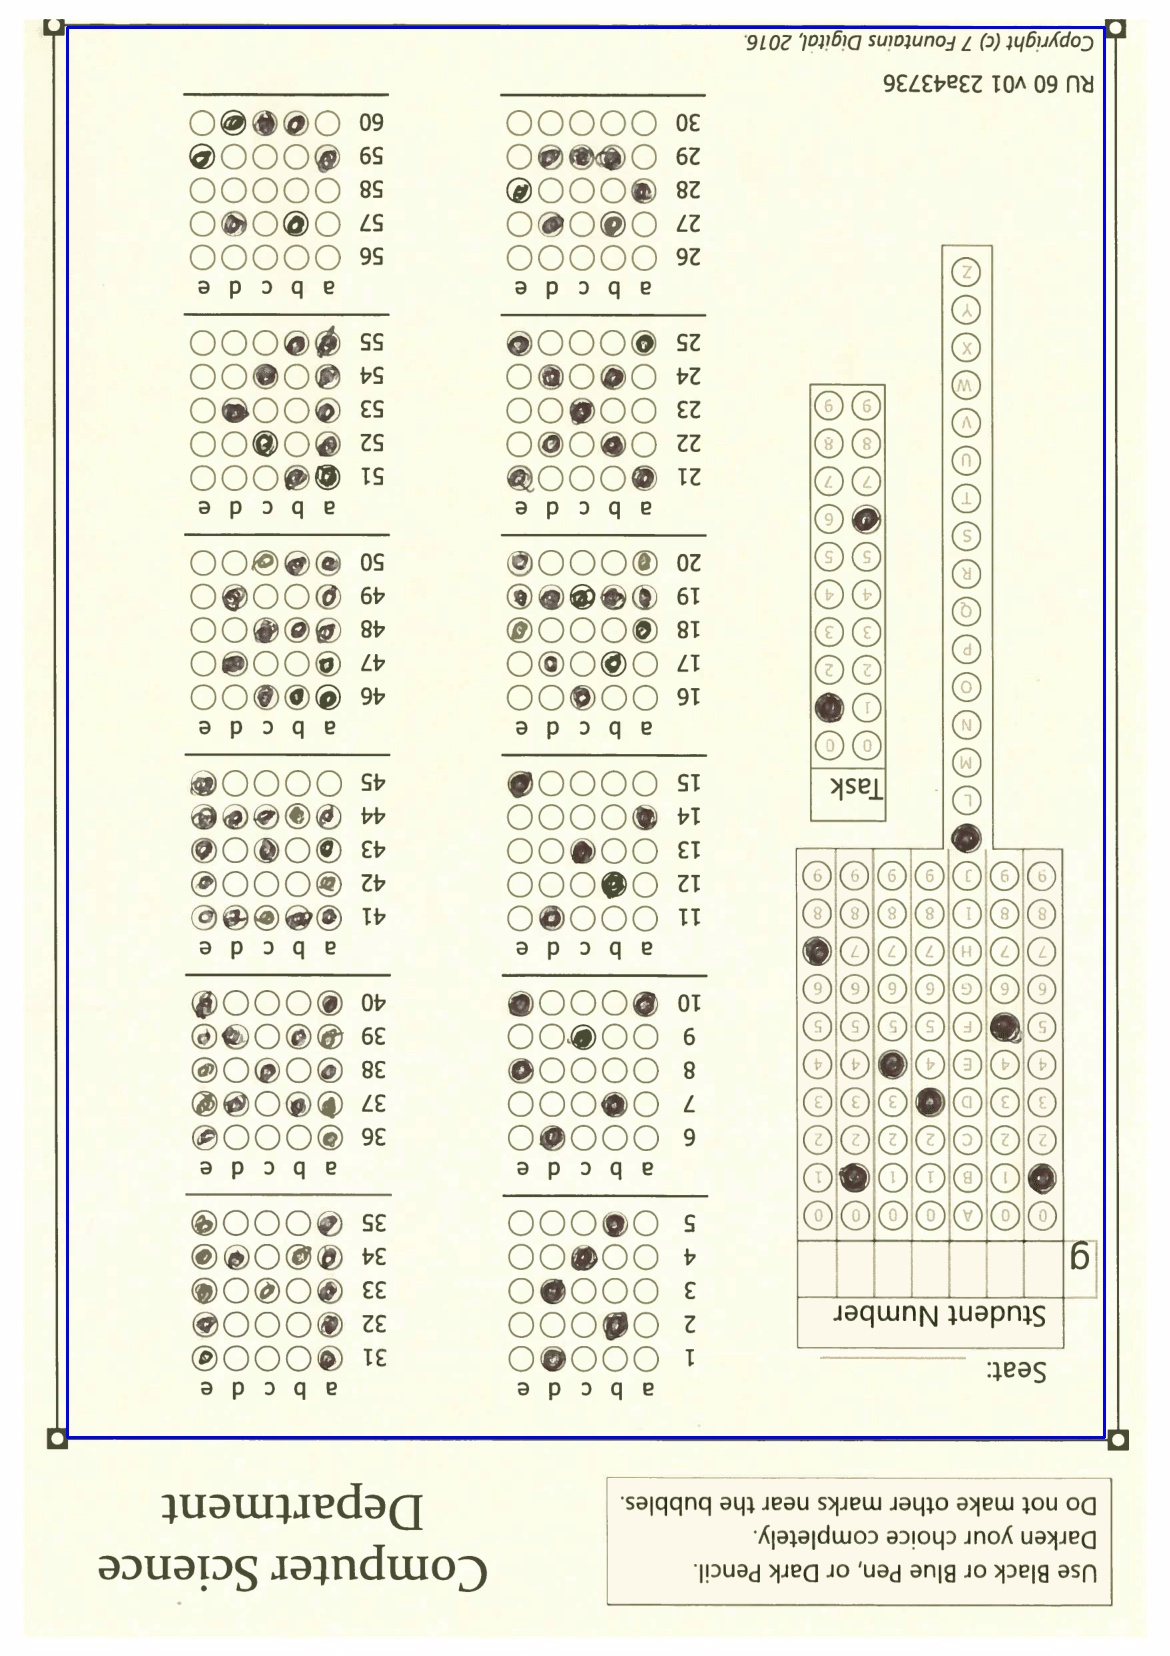
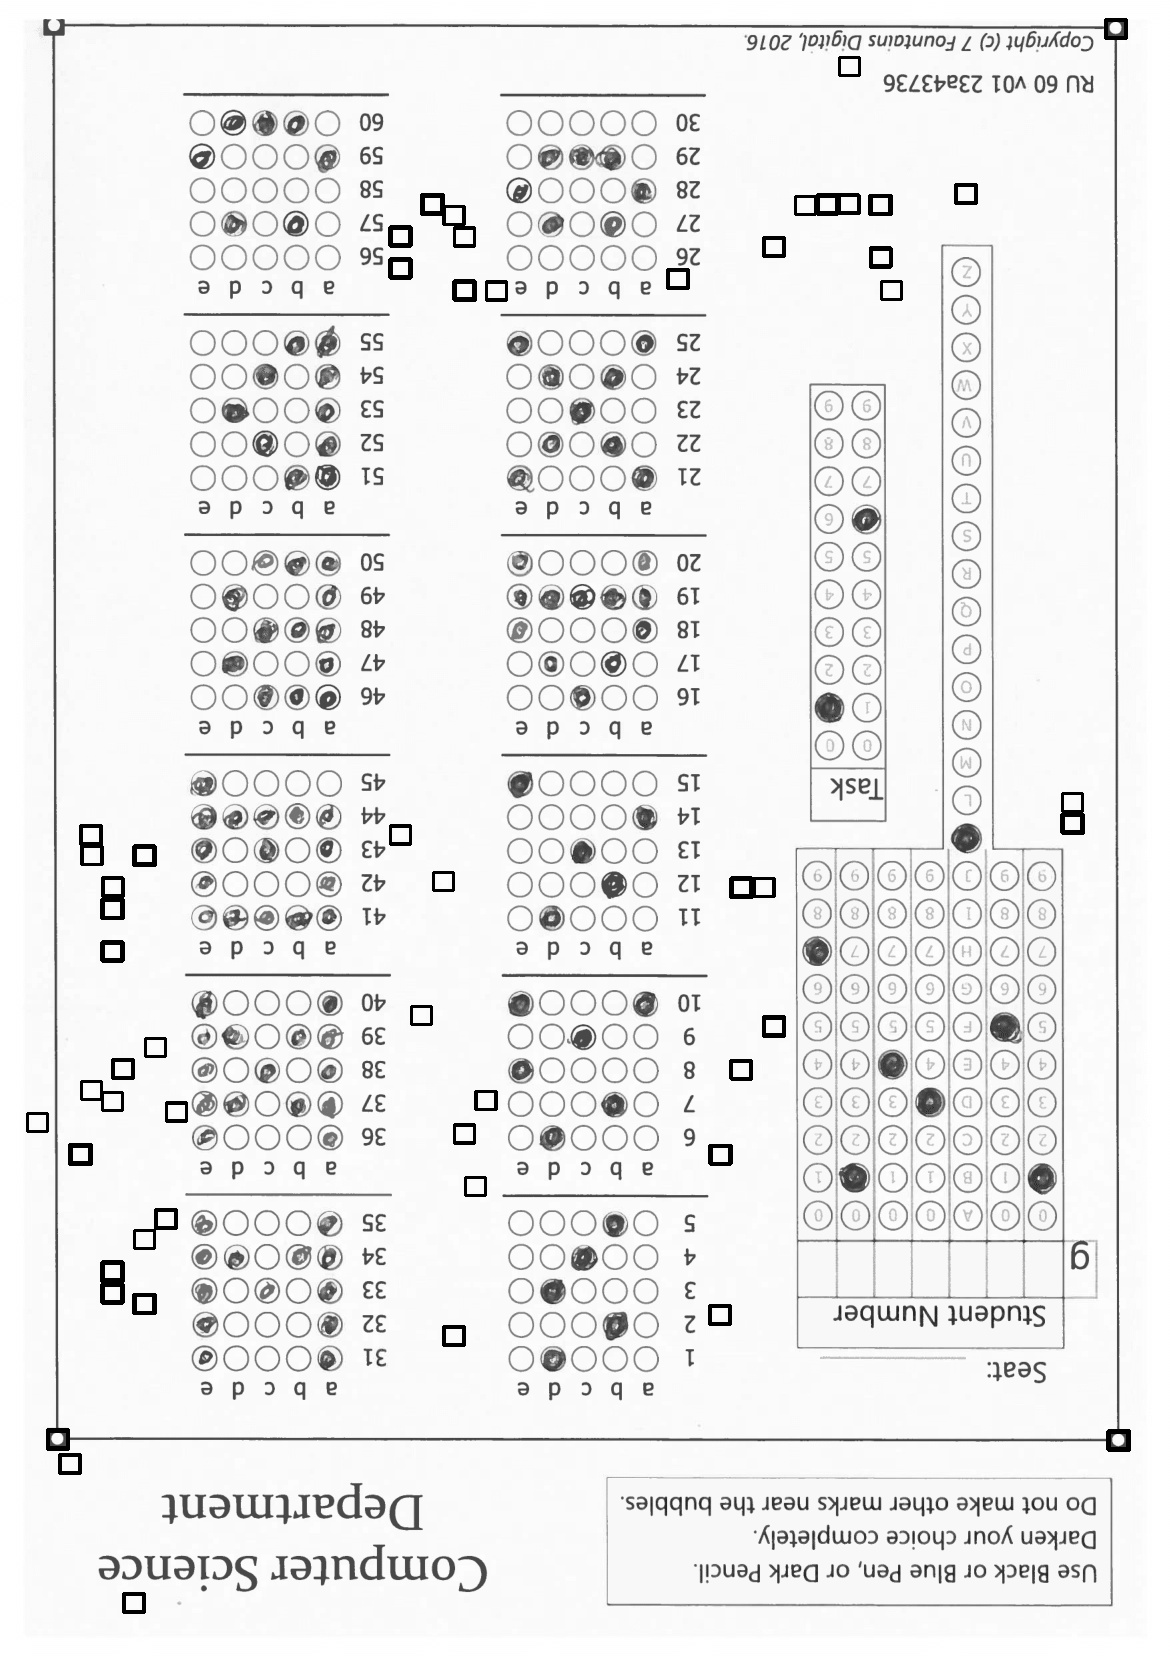
tried some stuff, not really working

diff --git a/5 - Sheet scoring/scoring.py b/5 - Sheet scoring/scoring.py
@@ -43,15 +43,30 @@ def dist(x,y):
     return np.sqrt((x[0]-y[0])**2 + (x[1]-y[1])**2);
 ###############################################################################
 for i in xrange(1,22):
-    img = cv2.imread('Sheets/MCQ_600dpi_2016-{0}.png'.format(str(i).zfill(2)))
-    sq = find_squares(img)
+    img = cv2.imread('Sheets/MCQ_600dpi_2016-{0}.png'.format(str(i).zfill(2)),cv2.CV_LOAD_IMAGE_GRAYSCALE)
+    #sq = find_squares(img)
+    #r = 1.33 #width to height ratio
+    #for s in sq:
+    #    sw  = dist(s[0],s[1])
+    #    sh  = dist(s[1],s[2])
+    #    if (nearly_equal(sh/sw,r)) or (nearly_equal(sw/sh,r)):
+    #        cv2.rectangle(img,tuple(s[0]),tuple(s[2]),(255,0,0),2)
+    #        break
+
+    template = cv2.imread('marker.png',0)
+    w, h = template.shape[::-1] 
     
-    for s in sq:
-        sw  = dist(s[0],s[1])
-        sh  = dist(s[1],s[2])
-        if (nearly_equal(sh/sw,1.33)) or (nearly_equal(sw/sh,1.33)):
-            cv2.rectangle(img,tuple(s[0]),tuple(s[2]),(255,0,0),2)
-            break
-        
+#    thi = cv2.adaptiveThreshold(img,255,cv2.ADAPTIVE_THRESH_GAUSSIAN_C,\
+#             cv2.THRESH_BINARY,11,2)
+#             
+#    tht = cv2.adaptiveThreshold(img,255,cv2.ADAPTIVE_THRESH_GAUSSIAN_C,\
+#             cv2.THRESH_BINARY,11,2)
+    
+    res = cv2.matchTemplate(img,template,cv2.TM_CCOEFF_NORMED)
+    threshold = 0.8
+    loc = np.where( res >= threshold)
+    for pt in zip(*loc[::-1]):
+        cv2.rectangle(img, pt, (pt[0] + w, pt[1] + h), (0,0,255), 2)
+    
     cv2.imwrite('Score/score{0}.jpg'.format(str(i).zfill(2)),img)
     
